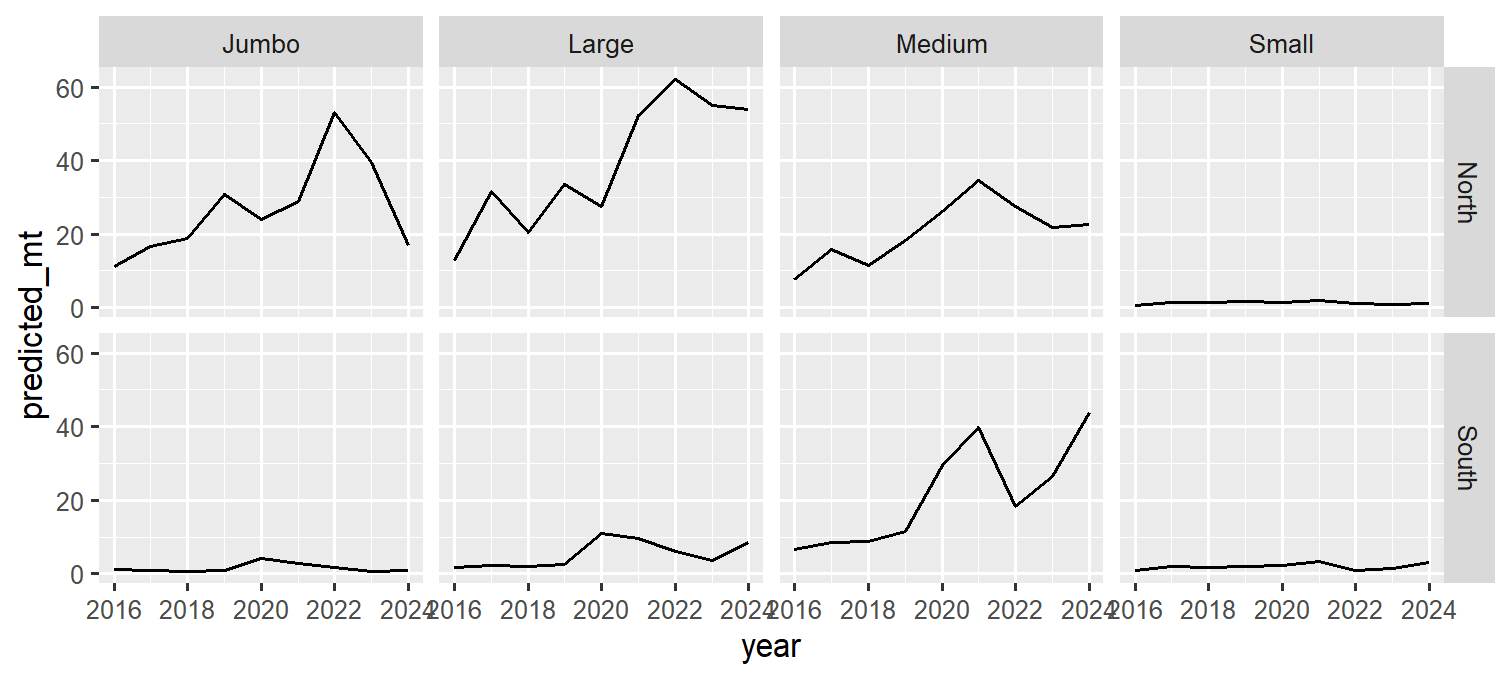
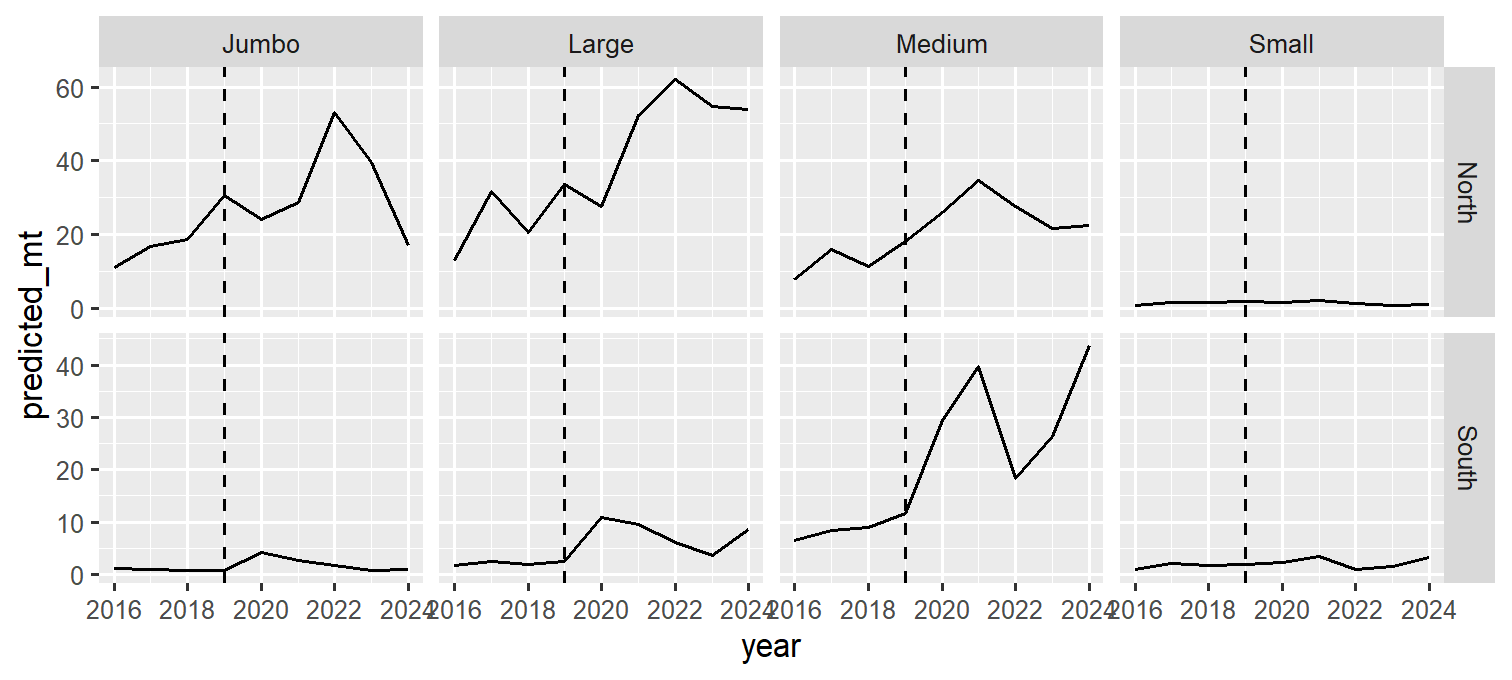
writing update

diff --git a/docs/20250612_EconomicInformedStockAssessments.html b/docs/20250612_EconomicInformedStockAssessments.html
@@ -3,7 +3,7 @@
   <head>
     <title>Using Prices to Inform Stock Assessment:</title>
     <meta charset="utf-8" />
-    <meta name="author" content="Min-Yang Lee Emily Liljestrand  Northeast Fisheries Science Center  12 June 2025" />
+    <meta name="author" content="Min-Yang Lee Emily Liljestrand  Northeast Fisheries Science Center  24 July 2025" />
     <script src="libs/header-attrs/header-attrs.js"></script>
     <link href="libs/remark-css/default.css" rel="stylesheet" />
     <link rel="stylesheet" href="libs/EDAB_theme3_508_SOE_16by9.css" type="text/css" />
@@ -20,7 +20,7 @@ class: right, middle, my-title, title-slide
 ## The Curious Case of the Unclassifed Black Sea Bass
 ]
 .author[
-### Min-Yang Lee<br />Emily Liljestrand<br /> Northeast Fisheries Science Center<br /> 12 June 2025
+### Min-Yang Lee<br />Emily Liljestrand<br /> Northeast Fisheries Science Center<br /> 24 July 2025
 ]
 
 ---
@@ -80,7 +80,7 @@ in-line cite with:
 ## Today, we are looking for
 
 - Feedback on data, methods.
-- Other species and stocks where this might work.
+- Other stocks where this might work.
 
 ]
 
@@ -131,19 +131,16 @@ Can we use prices to infer the size of Unclassified Black Sea Bass?
 ]
 
 ---
-
 # Methods Overview 
 
 - Train a random forest classification model  &lt;a name=cite-Breiman2001&gt;&lt;/a&gt;([Breiman, 2001](#bib-Breiman2001))  using CAMS data for the four principle classes (Jumbo, Large, Medium, and Small).
-
-
 - **Predict** out of sample on the "Unclassified."
-
-
 - Use the results to construct a new length distribution of the landed black sea bass.
 
+The heavy lifting is done in **R** with the *tidymodels* mega-package.  The Random Forest model itself is fit with *ranger*.
+
 ---
-# Methods Detail I   
+# Methods Detail I
 
 - Classification trees perform recursive binary splitting.  The dependent variable is repeatedly partitioned into two groups based on a single explanatory variable based on minimizing within group variation.
 
@@ -151,15 +148,15 @@ Can we use prices to infer the size of Unclassified Black Sea Bass?
 - Random Forests are "bootstraps" of classification trees, where a different subset of explanatory factors is used in each bootstrap.
 
 
-- **Tune** with a `\(10-\)`fold cross-validation on 90% of the data (2015-2024).
-    - select *mtry* (number of factors) using Brier classification as the criteria function.
+- **Tune** to find the optimal *mtry* hyperparameter value using Brier classification as the criteria function. 
+    - `\(10-\)`fold cross-validation on 90% of the data (2015-2024).
     - `\(Brier=\frac{1}{2n} \sum_{i} \sum_j (y_{ij}- \hat{P_i}(Class_j))^2\)`
     
 
 .footnote[
 mtry: The number of randomly selected predictors that go into the Classification Tree.
 
-Brier ~ Sum of Squared Errors 
+Brier ~ Essentially Sum of Squared Errors 
 ]
 
 ---
@@ -180,8 +177,8 @@ Brier ~ Sum of Squared Errors
 .pull-left[
 Factor Variables:
 
-   - Gear : Trawl, Line, Pot/Trap, Gillnet, Other
-   - Stock: North or South
+   - Gear : Trawl, Line, "Alive" Gear - Pot/Trap/Weir/Fyke, Gillnet, Other
+   - Stock Area: North or South
    - State of Landing: North Carolina to Maine
    - Year: 2015-2025 
    - Month
@@ -209,7 +206,7 @@ Economic theory and content expertise play a crucial role in guiding where the a
 Assumption 1 -  Out-of-sample prediction is valid
   
   - Unclassified fish just like classified fish, except we don't observe their class.
-  - Concern: There are some transactions by non-federally permitted vessels.
+  - Concern: There are some transactions by non-federally permitted vessels. Prices might be reported differently.
 
 --
 
@@ -304,9 +301,10 @@ Table: Predictions on the Full Sample (mt).
 
 #  Out of Sample Predictions
 
-
+What is the true market class of the Unclassified fish from 2016-2024?
+.center[
 &lt;img src="20250612_EconomicInformedStockAssessments_files/figure-html/nocluster_oos_predictions-1.png" width="504" /&gt;
-
+]
 ---
 
 # Next steps
@@ -328,7 +326,7 @@ Table: Predicted Categories of North Unclassified, 2018-2022 (mt)
 |Jumbo       |          155|        32%|
 ]
 
- - We observe the lengths of Unclassified black sea bass from 2018-2022  How well does the "Price Informed" allocation method work?  
+ - We observe the lengths of Unclassified black sea bass from 2018-2022. How well does the "Price Informed" allocation method work?  
  - Sample size is kind of small for the Unclassified lengths -- enough to be comfortable?
 
 
@@ -346,6 +344,12 @@ market catgories?
 
 .pull-right[
 &lt;img src="./20250612_EconomicInformedStockAssessments/images/2023_BSB_UNIT_TOR2_pct.jpg" alt="Proportion of 'borrowed' age-length data" height="500" width="500"  /&gt;
+]
+
+---
+# Extensions
+.center[
+&lt;img src="./20250612_EconomicInformedStockAssessments/images/price_hist_AGG_GADUS MORHUA.png" alt="Price Histogram for Cod" height="500" width="500"  /&gt;
 ]
 
 ---
